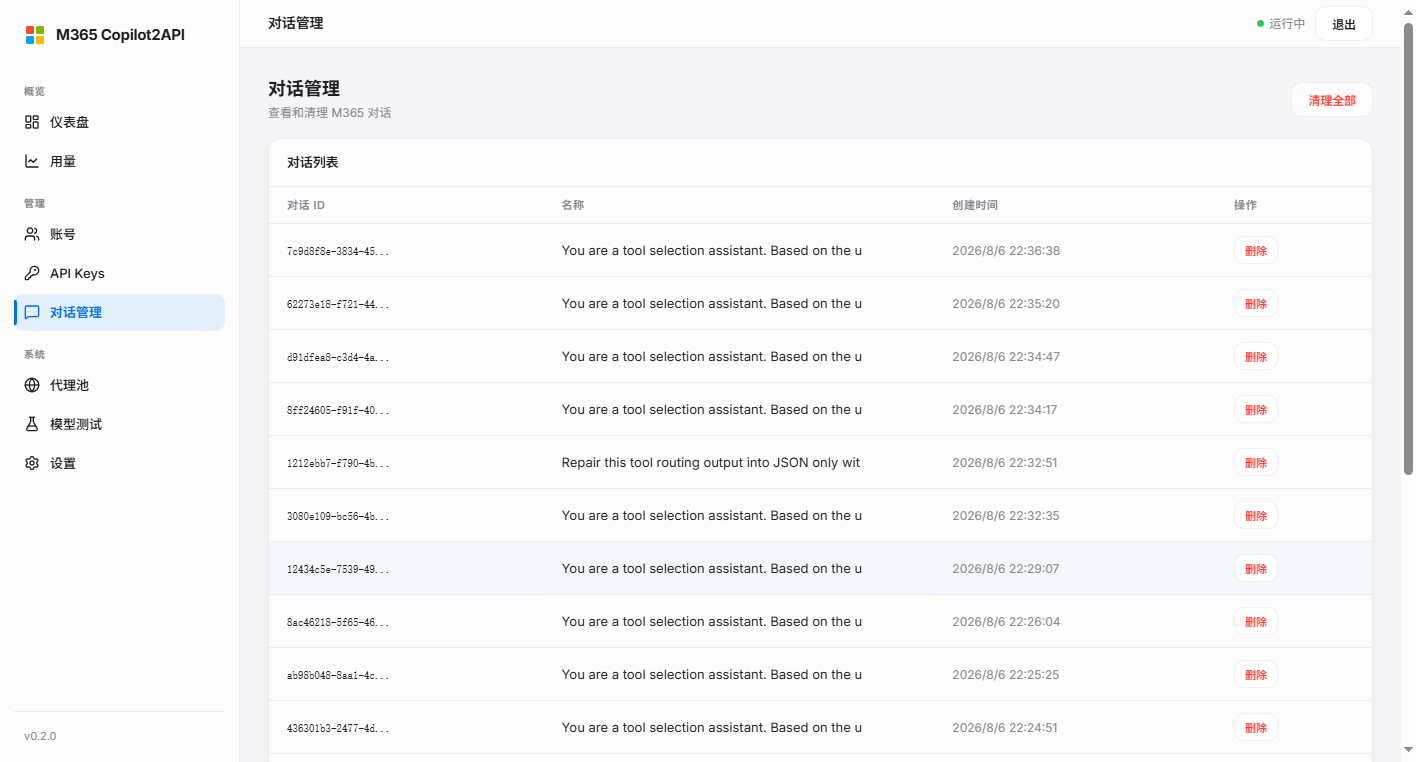
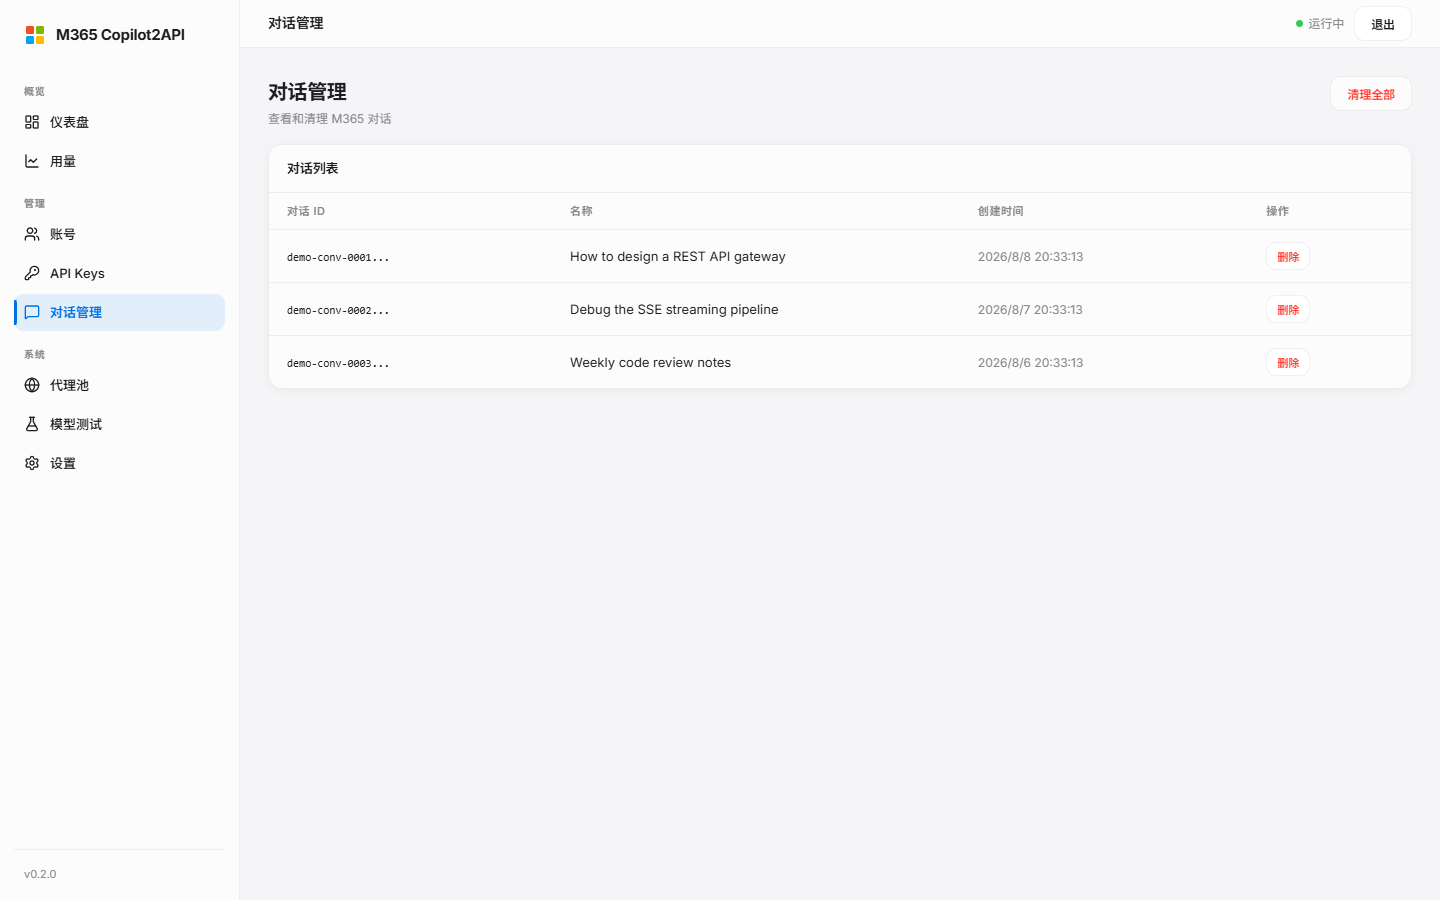
docs(readme): add UI preview gallery with example-data screenshots
- new '界面预览' section: centered dashboard hero + 3x3 grid
- screenshots use synthetic demo data (no real accounts/keys/conversations)

diff --git a/README.md b/README.md
@@ -25,6 +25,28 @@ M365 Copilot2API 是一个用 Go 编写的自托管网关，把微软 365 Copilo
 > - 本项目**仅供个人学习与研究**，**禁止用于商业转售或规模化运营**。
 > - 账号被封禁、数据丢失等任何损失，本项目维护者与贡献者**概不负责**。
 
+## 界面预览
+
+<p align="center"><img src="docs/screenshots/02-dashboard.png" alt="仪表盘" style="max-width:860px;border-radius:12px;box-shadow:0 8px 32px rgba(0,0,0,.18)"></p>
+
+<table>
+  <tr>
+    <td align="center" width="33%"><img src="docs/screenshots/01-login.png" alt="登录页" style="border-radius:10px;box-shadow:0 4px 16px rgba(0,0,0,.12)"><br><sub><b>登录</b></sub></td>
+    <td align="center" width="33%"><img src="docs/screenshots/03-usage.png" alt="用量统计" style="border-radius:10px;box-shadow:0 4px 16px rgba(0,0,0,.12)"><br><sub><b>用量统计</b></sub></td>
+    <td align="center" width="33%"><img src="docs/screenshots/04-accounts.png" alt="账号管理" style="border-radius:10px;box-shadow:0 4px 16px rgba(0,0,0,.12)"><br><sub><b>账号管理</b></sub></td>
+  </tr>
+  <tr>
+    <td align="center" width="33%"><img src="docs/screenshots/05-apikeys.png" alt="API Keys" style="border-radius:10px;box-shadow:0 4px 16px rgba(0,0,0,.12)"><br><sub><b>API Keys</b></sub></td>
+    <td align="center" width="33%"><img src="docs/screenshots/06-conversations.png" alt="对话管理" style="border-radius:10px;box-shadow:0 4px 16px rgba(0,0,0,.12)"><br><sub><b>对话管理</b></sub></td>
+    <td align="center" width="33%"><img src="docs/screenshots/07-proxies.png" alt="代理池" style="border-radius:10px;box-shadow:0 4px 16px rgba(0,0,0,.12)"><br><sub><b>代理池</b></sub></td>
+  </tr>
+  <tr>
+    <td align="center" width="33%"><img src="docs/screenshots/08-modeltest.png" alt="模型测试" style="border-radius:10px;box-shadow:0 4px 16px rgba(0,0,0,.12)"><br><sub><b>模型测试</b></sub></td>
+    <td align="center" width="33%"><img src="docs/screenshots/09-settings.png" alt="设置" style="border-radius:10px;box-shadow:0 4px 16px rgba(0,0,0,.12)"><br><sub><b>设置</b></sub></td>
+    <td align="center" width="33%"><sub><i>更多功能，等你发现</i></sub></td>
+  </tr>
+</table>
+
 ## 功能特性
 
 | 功能 | 说明 |
